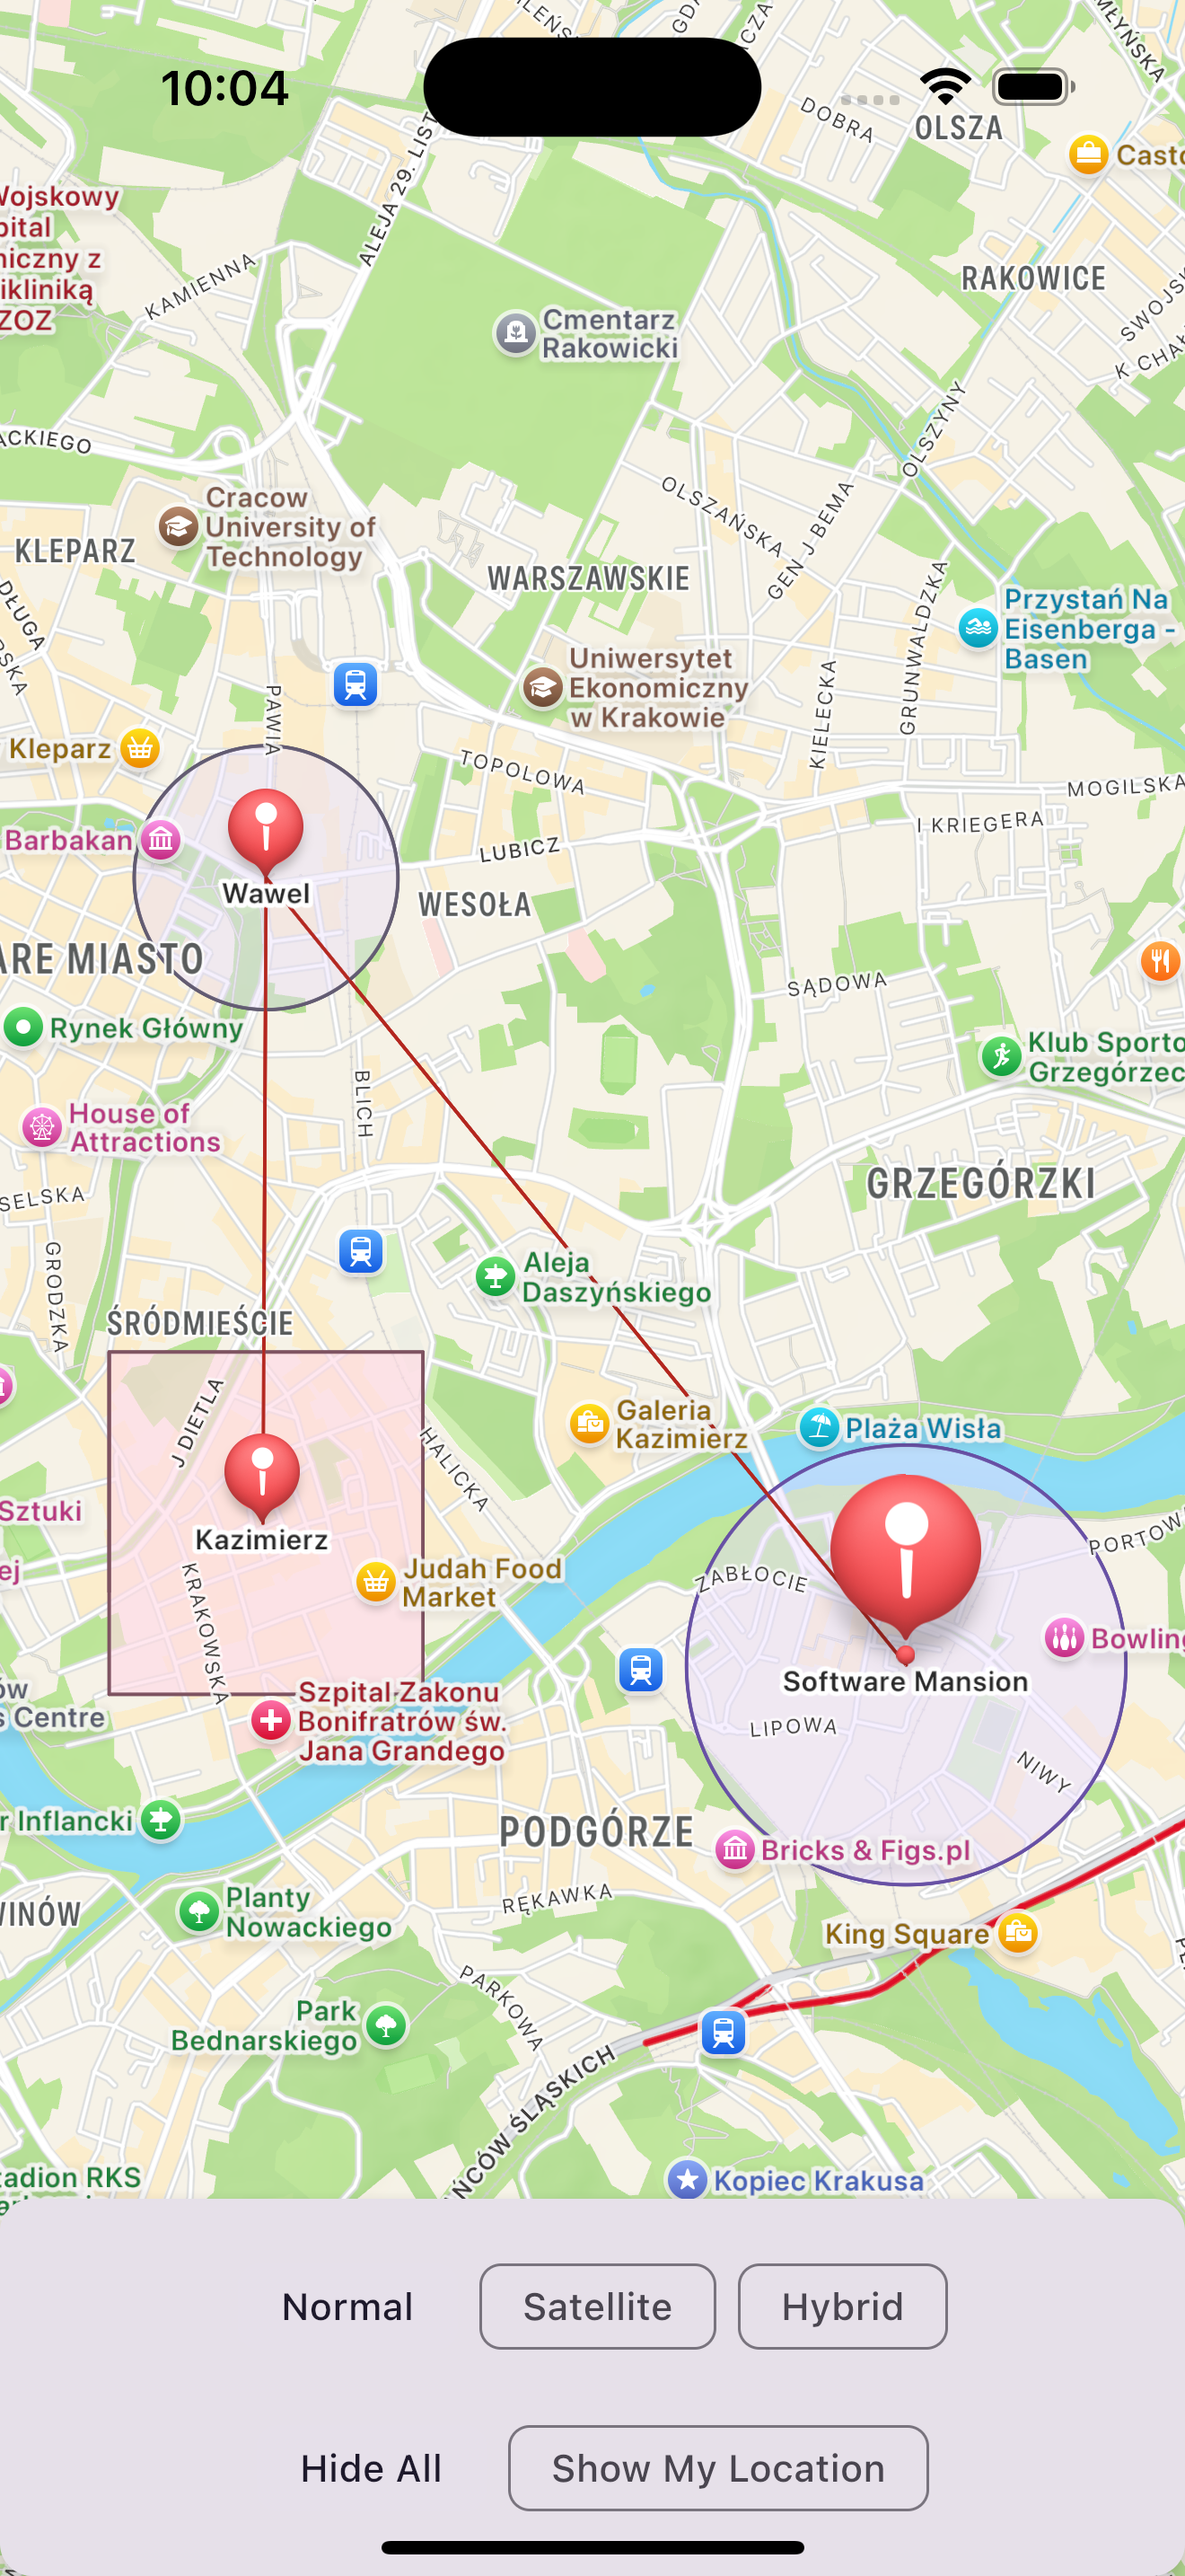
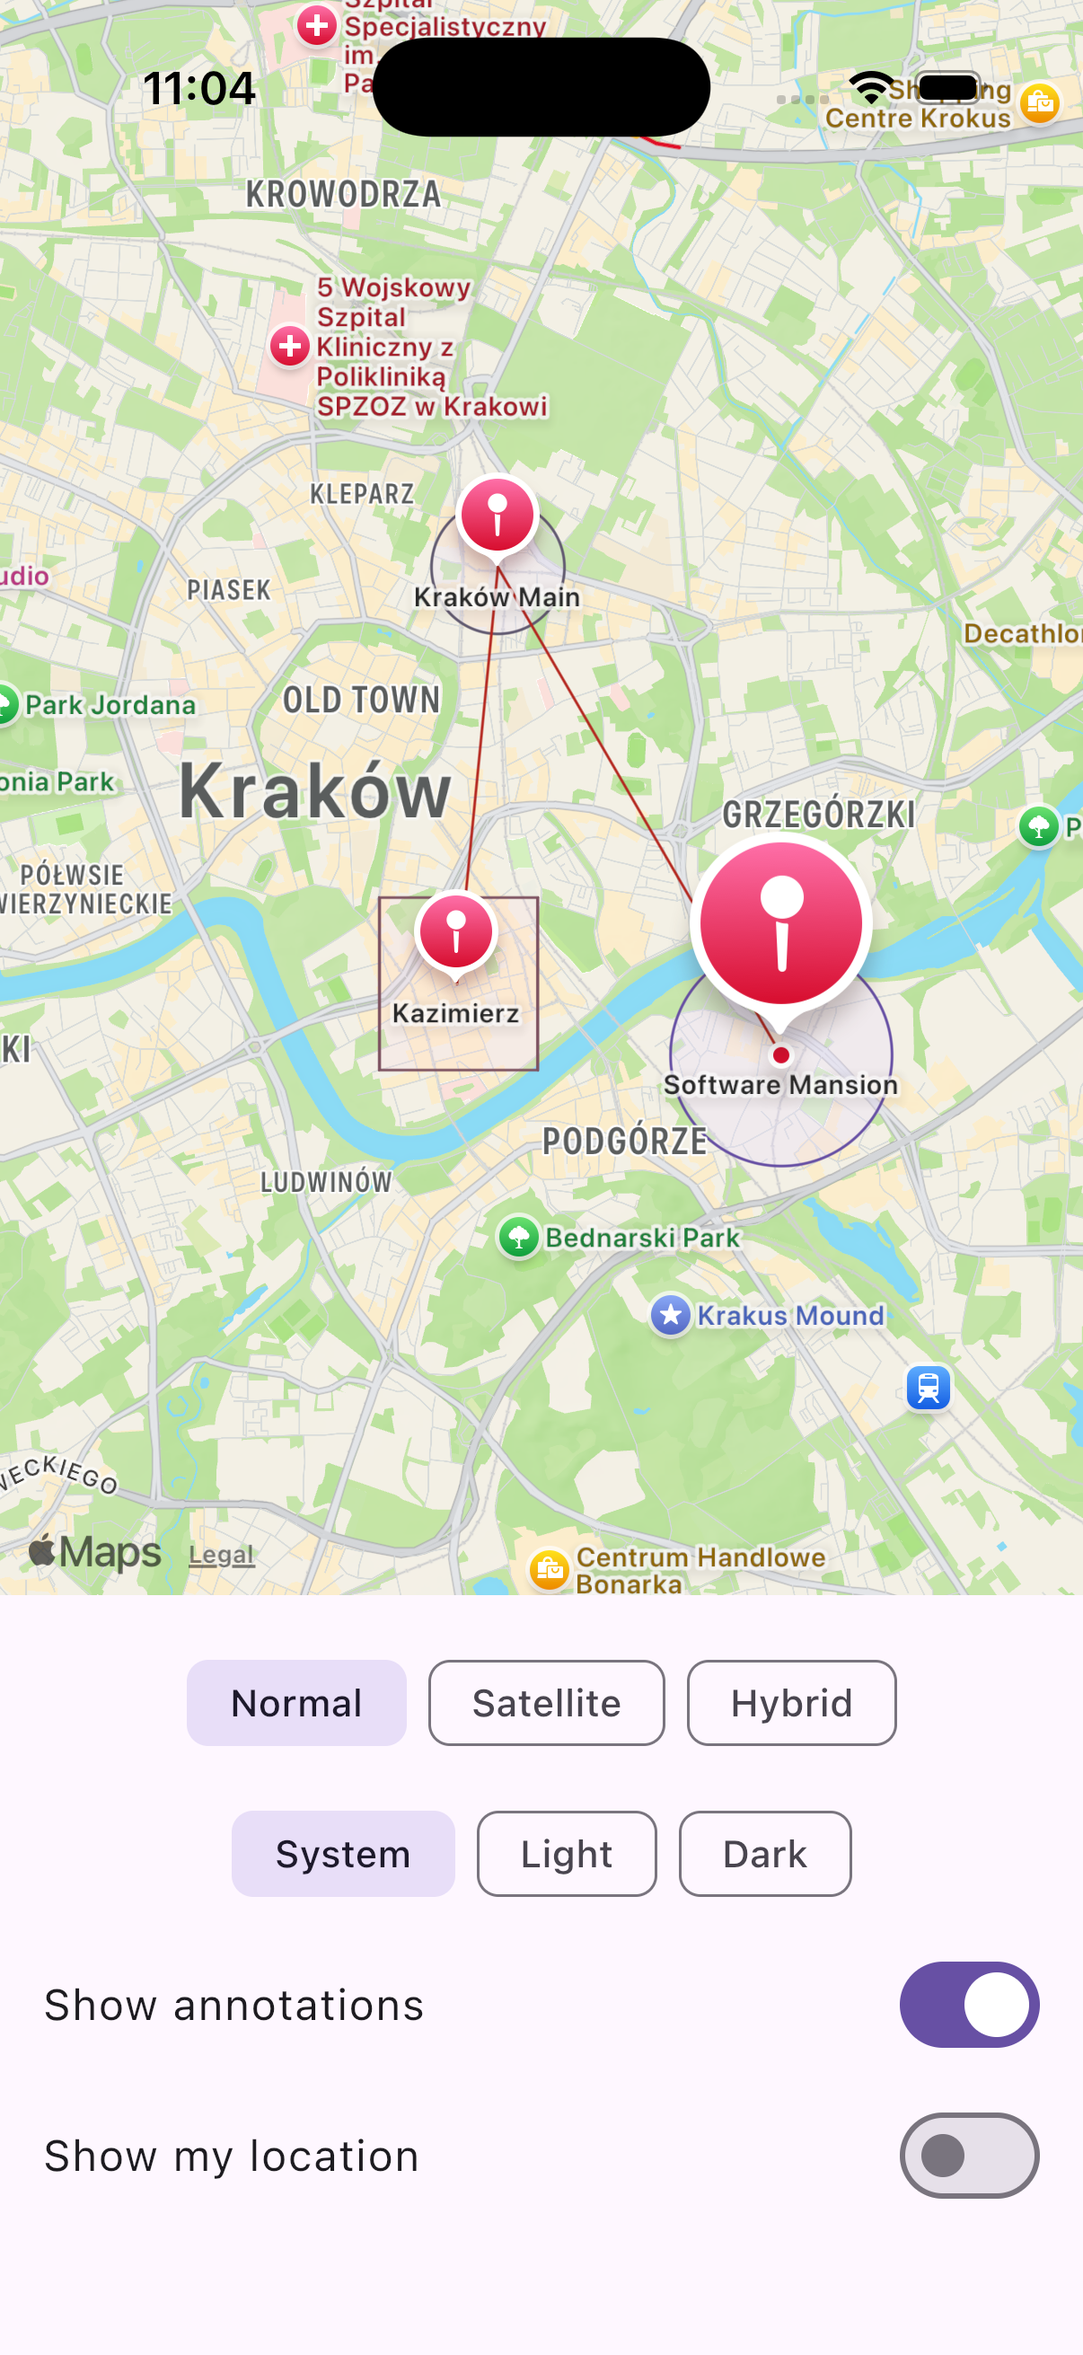
Refine sample app (#49)
* Refine sample app

* Change pin location to cracow main station

* Update sample-app screenshots

---------

diff --git a/sample/src/commonMain/kotlin/com/swmansion/kmpmaps/sample/MapsScreen.kt b/sample/src/commonMain/kotlin/com/swmansion/kmpmaps/sample/MapsScreen.kt
@@ -1,15 +1,22 @@
 package com.swmansion.kmpmaps.sample
 
+import androidx.compose.foundation.clickable
 import androidx.compose.foundation.layout.Arrangement
-import androidx.compose.foundation.layout.Box
 import androidx.compose.foundation.layout.Column
 import androidx.compose.foundation.layout.Row
-import androidx.compose.foundation.layout.fillMaxSize
+import androidx.compose.foundation.layout.WindowInsets
+import androidx.compose.foundation.layout.exclude
+import androidx.compose.foundation.layout.fillMaxHeight
 import androidx.compose.foundation.layout.fillMaxWidth
+import androidx.compose.foundation.layout.height
 import androidx.compose.foundation.layout.padding
-import androidx.compose.material3.Card
-import androidx.compose.material3.CardDefaults
+import androidx.compose.foundation.layout.safeDrawing
+import androidx.compose.foundation.layout.statusBars
+import androidx.compose.foundation.layout.windowInsetsPadding
 import androidx.compose.material3.FilterChip
+import androidx.compose.material3.ListItem
+import androidx.compose.material3.Surface
+import androidx.compose.material3.Switch
 import androidx.compose.material3.Text
 import androidx.compose.runtime.Composable
 import androidx.compose.runtime.getValue
@@ -42,9 +49,9 @@ fun MapsScreen() {
     }
     var showAllComponents by remember { mutableStateOf(true) }
 
-    Box(modifier = Modifier.fillMaxSize()) {
+    Column(Modifier.fillMaxHeight(), Arrangement.Bottom) {
         Map(
-            modifier = Modifier.fillMaxSize(),
+            modifier = Modifier.weight(1f),
             cameraPosition = currentCameraPosition,
             properties =
                 MapProperties(
@@ -62,6 +69,7 @@ fun MapsScreen() {
                     compassEnabled = true,
                     myLocationButtonEnabled = showUserLocation,
                     scaleBarEnabled = true,
+                    androidZoomControlsEnabled = false,
                 ),
             markers = if (showAllComponents) exampleMarkers else emptyList(),
             circles = if (showAllComponents) getExampleCircles() else emptyList(),
@@ -80,20 +88,15 @@ fun MapsScreen() {
             onMarkerClick = { marker -> println("Marker clicked: ${marker.title}") },
             onMapClick = { coordinates -> println("Map clicked at: $coordinates") },
         )
-
-        Card(
-            modifier = Modifier.fillMaxWidth().align(Alignment.BottomCenter),
-            elevation = CardDefaults.cardElevation(defaultElevation = 8.dp),
-        ) {
+        Surface {
             Column(
-                modifier = Modifier.fillMaxWidth().padding(16.dp),
-                horizontalAlignment = Alignment.CenterHorizontally,
-                verticalArrangement = Arrangement.spacedBy(12.dp),
+                Modifier.fillMaxWidth()
+                    .windowInsetsPadding(WindowInsets.safeDrawing.exclude(WindowInsets.statusBars))
+                    .padding(vertical = 16.dp),
+                Arrangement.spacedBy(8.dp),
+                Alignment.CenterHorizontally,
             ) {
-                Row(
-                    horizontalArrangement = Arrangement.spacedBy(8.dp),
-                    verticalAlignment = Alignment.CenterVertically,
-                ) {
+                Row(horizontalArrangement = Arrangement.spacedBy(8.dp)) {
                     FilterChip(
                         onClick = { selectedMapType = MapType.NORMAL },
                         label = { Text("Normal") },
@@ -110,10 +113,7 @@ fun MapsScreen() {
                         selected = selectedMapType == MapType.HYBRID,
                     )
                 }
-                Row(
-                    horizontalArrangement = Arrangement.spacedBy(8.dp),
-                    verticalAlignment = Alignment.CenterVertically,
-                ) {
+                Row(horizontalArrangement = Arrangement.spacedBy(8.dp)) {
                     FilterChip(
                         onClick = { selectedMapTheme = MapTheme.SYSTEM },
                         label = { Text("System") },
@@ -130,21 +130,28 @@ fun MapsScreen() {
                         selected = selectedMapTheme == MapTheme.DARK,
                     )
                 }
-                Row(
-                    horizontalArrangement = Arrangement.spacedBy(8.dp),
-                    verticalAlignment = Alignment.CenterVertically,
-                ) {
-                    FilterChip(
-                        onClick = { showAllComponents = !showAllComponents },
-                        label = { Text(if (showAllComponents) "Hide All" else "Show All") },
-                        selected = showAllComponents,
-                    )
-                    FilterChip(
-                        onClick = { showUserLocation = !showUserLocation },
-                        label = { Text("Show My Location") },
-                        selected = showUserLocation,
-                    )
-                }
+                ListItem(
+                    headlineContent = { Text("Show annotations") },
+                    modifier =
+                        Modifier.height(48.dp).clickable { showAllComponents = !showAllComponents },
+                    trailingContent = {
+                        Switch(
+                            checked = showAllComponents,
+                            onCheckedChange = { showAllComponents = it },
+                        )
+                    },
+                )
+                ListItem(
+                    headlineContent = { Text("Show my location") },
+                    modifier =
+                        Modifier.height(48.dp).clickable { showUserLocation = !showUserLocation },
+                    trailingContent = {
+                        Switch(
+                            checked = showUserLocation,
+                            onCheckedChange = { showUserLocation = it },
+                        )
+                    },
+                )
             }
         }
     }

diff --git a/sample/src/commonMain/kotlin/com/swmansion/kmpmaps/sample/Examples.kt b/sample/src/commonMain/kotlin/com/swmansion/kmpmaps/sample/Examples.kt
@@ -5,7 +5,7 @@ import androidx.compose.runtime.Composable
 import com.swmansion.kmpmaps.*
 
 val softwareMansionPin = Coordinates(latitude = 50.0486, longitude = 19.9654)
-val royalCastlePin = Coordinates(latitude = 50.0647, longitude = 19.9450)
+val cracowMainStationPin = Coordinates(latitude = 50.06839615782847, longitude = 19.947491884231567)
 val jewishQuarterPin = Coordinates(latitude = 50.0515, longitude = 19.9449)
 
 val exampleMarkers =
@@ -15,7 +15,11 @@ val exampleMarkers =
             title = "Software Mansion",
             androidSnippet = "Software house",
         ),
-        Marker(coordinates = royalCastlePin, title = "Wawel", androidSnippet = "Royal castle"),
+        Marker(
+            coordinates = cracowMainStationPin,
+            title = "Kraków Main",
+            androidSnippet = "Transit station",
+        ),
         Marker(
             coordinates = jewishQuarterPin,
             title = "Kazimierz",
@@ -27,14 +31,14 @@ val exampleMarkers =
 fun getExampleCircles() =
     listOf(
         Circle(
-            center = Coordinates(latitude = 50.0486, longitude = 19.9654),
+            center = softwareMansionPin,
             radius = 500.0f,
             lineColor = MaterialTheme.colorScheme.primary,
             lineWidth = 1f,
             color = MaterialTheme.colorScheme.primaryContainer.copy(alpha = 0.3f),
         ),
         Circle(
-            center = Coordinates(latitude = 50.0647, longitude = 19.9450),
+            center = cracowMainStationPin,
             radius = 300.0f,
             lineColor = MaterialTheme.colorScheme.secondary,
             lineWidth = 1f,
@@ -64,7 +68,7 @@ fun getExamplePolygons() =
 fun getExamplePolylines() =
     listOf(
         Polyline(
-            coordinates = listOf(softwareMansionPin, royalCastlePin, jewishQuarterPin),
+            coordinates = listOf(softwareMansionPin, cracowMainStationPin, jewishQuarterPin),
             lineColor = MaterialTheme.colorScheme.error,
             width = 1f,
         )

diff --git a/sample/src/commonMain/kotlin/com/swmansion/kmpmaps/sample/App.kt b/sample/src/commonMain/kotlin/com/swmansion/kmpmaps/sample/App.kt
@@ -1,25 +1,16 @@
 package com.swmansion.kmpmaps.sample
 
+import androidx.compose.foundation.isSystemInDarkTheme
 import androidx.compose.material3.MaterialTheme
+import androidx.compose.material3.darkColorScheme
 import androidx.compose.material3.lightColorScheme
 import androidx.compose.runtime.Composable
-import androidx.compose.ui.graphics.Color
 import org.jetbrains.compose.ui.tooling.preview.Preview
 
 @Composable
 @Preview
 fun App() {
-    MaterialTheme(
-        colorScheme =
-            lightColorScheme(
-                primary = Color(0xFF6750A4),
-                secondary = Color(0xFF625B71),
-                tertiary = Color(0xFF7D5260),
-                primaryContainer = Color(0xFFEADDFF),
-                secondaryContainer = Color(0xFFE8DEF8),
-                tertiaryContainer = Color(0xFFFFD8E4),
-            )
-    ) {
+    MaterialTheme(if (isSystemInDarkTheme()) darkColorScheme() else lightColorScheme()) {
         MapsScreen()
     }
 }
